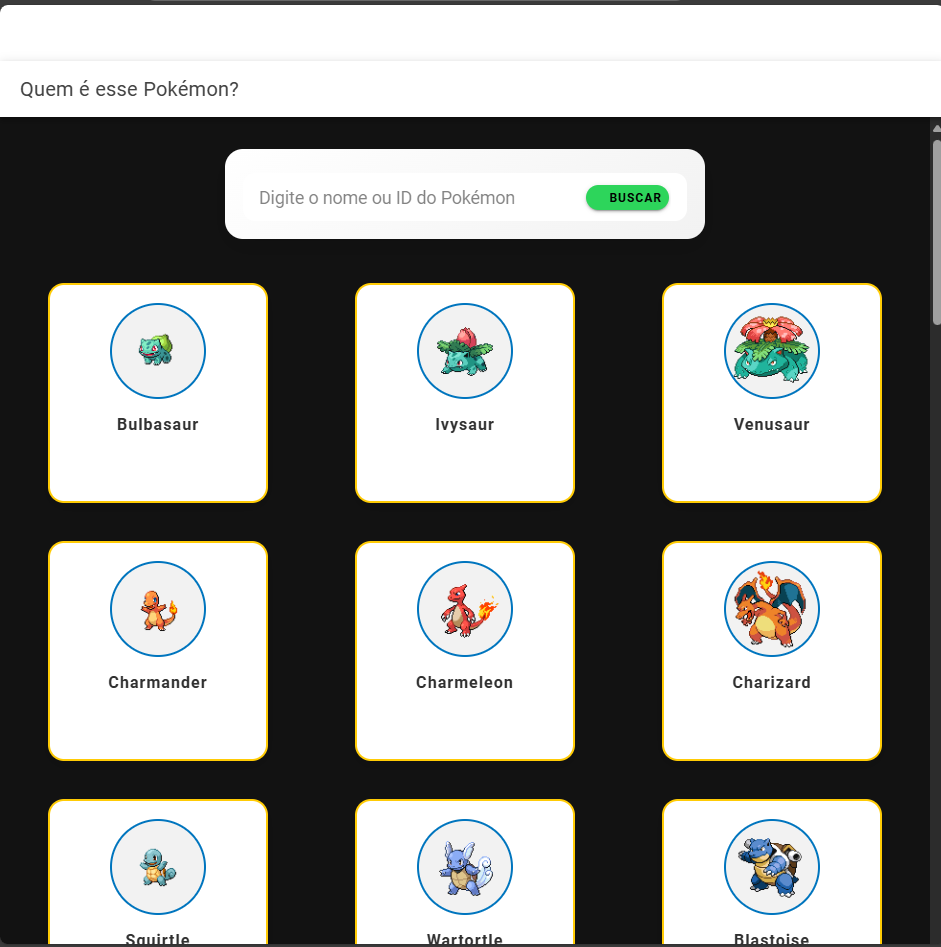
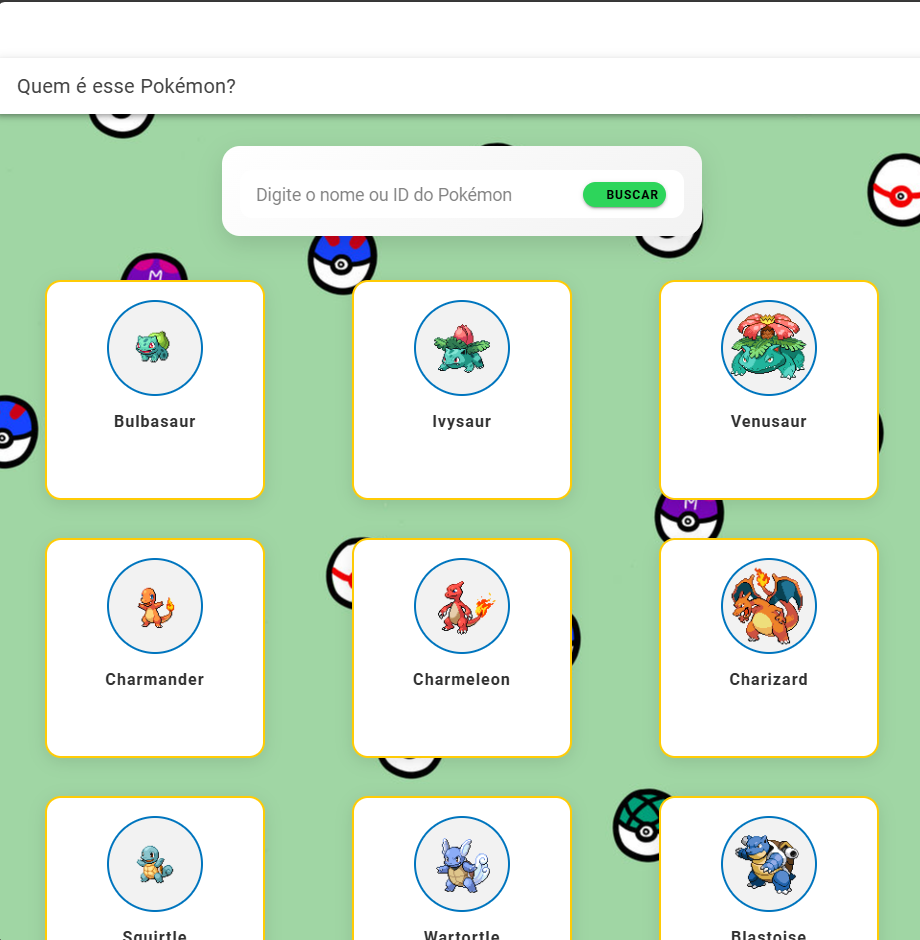
Ajuste do tema da home que estava com arquivo incorreto.

diff --git a/src/app/pages/home/home.page.scss b/src/app/pages/home/home.page.scss
@@ -10,7 +10,7 @@ $pokemon-green: #4CAF50;
   display: flex;
   flex-direction: column;
   align-items: center;
-  --background: url('/assets/images/pokethemes.jpg') repeat center center;
+  --background: url('/assets/images/pokeball-pattern.png') repeat center center;
   --background-size: 120px;
   padding-bottom: 32px;
 }

diff --git a/README.md b/README.md
@@ -1,7 +1,7 @@
 # Quem é esse Pokémon?
 
 Este é um projeto Angular + Ionic que consome a PokéAPI e permite buscar informações de qualquer Pokémon pelo nome ou ID. A interface é responsiva, temática e amigável para fãs de Pokémon!
-Wste projeto é uma avaliação técnica desenvolvida utilizando componentes standalone, consumindo a PokeAPI para exibir, detalhar e favoritar Pokémons. O repositório segue boas práticas de versionamento, arquitetura e responsividade, e pode ser acompanhado em:
+Este projeto é uma avaliação técnica desenvolvida utilizando componentes standalone, consumindo a PokeAPI para exibir, detalhar e favoritar Pokémons. O repositório segue boas práticas de versionamento, arquitetura e responsividade, e pode ser acompanhado em:
 https://github.com/Ld36/quem_e_esse_pokemon.git
 
 ---
